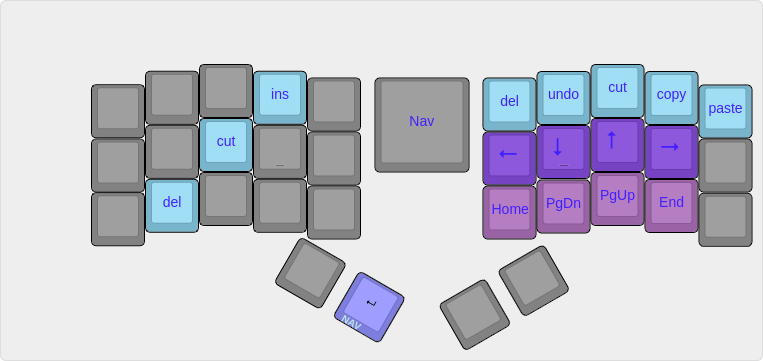
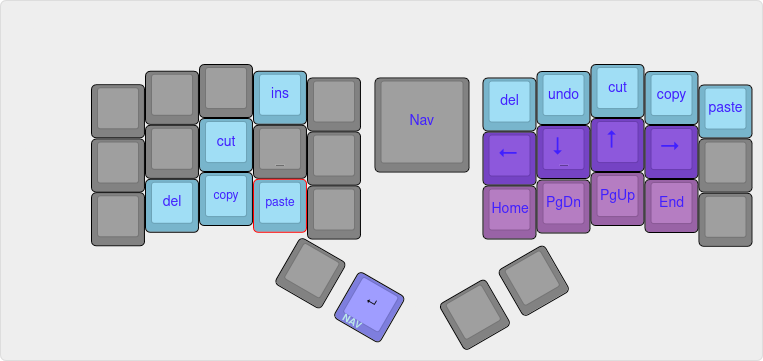
Feature: add copy paste to left hand in nav mode for mouse navigation

diff --git a/resources/linksToConfig.md b/resources/linksToConfig.md
@@ -8,7 +8,7 @@ http://www.keyboard-layout-editor.com/##@_switchMount=alps&plate:false&pcb:false
 http://www.keyboard-layout-editor.com/##@_switchMount=alps&plate:false&pcb:false%3B&@_y:1&x:3.5&c=%23828282&a:7%3B&=&_x:6.25%3B&=%3B&@_y:-0.875&x:2.5%3B&=&_x:1%3B&=%3B&@_y:-0.9950000000000001&x:9.75%3B&=&_x:1%3B&=%3B&@_y:-0.8799999999999999&x:5.5%3B&=&_x:0.25&c=%23a2deac&fa@:7%3B&w:1.75&h:1.75&l:true%3B&=Home%20Row%20Mods&_x:0.25&c=%23828282%3B&=%3B&@_y:-0.87489&x:1.5%3B&=%3B&@_y:-0.9951100000000004&x:12.75%3B&=%3B&@_y:-0.3799999999999999&x:3.5&c=%23f5a9a9&t=%23ff195e&fa@:6%3B%3B&=%3Cb%3ECtrl&_x:6.25%3B&=%3Cb%3ECtrl%3B&@_y:-0.875&x:2.5&c=%230f6308&t=%2383ff75%3B&=Alt%3B&@_y:-0.9997500000000001&x:4.5&c=%23336aab&t=%2396cbeb&sm=cherry&n:true%3B&=Shift%3B&@_y:-0.99525&x:9.75&n:true%3B&=Shift&_x:1&c=%230f6308&t=%2383ff75%3B&=Alt%3B&@_y:-0.8799999999999999&x:5.5&c=%23828282&t=%23000000%3B&=&_x:2.25%3B&=%3B&@_y:-0.8700000000000001&x:1.5&c=%23d1e3e3&fa@:9%3B%3B&=%3Ci%20class%2F='fa%20fa-linux'%3E%3C%2F%2Fi%3E&_x:10.25%3B&=%3Ci%20class%2F='fa%20fa-linux'%3E%3C%2F%2Fi%3E%3B&@_y:-0.3799999999999999&x:3.5&c=%23828282%3B&=&_x:6.25%3B&=%3B&@_y:-0.875&x:2.5%3B&=&_x:1%3B&=%3B&@_y:-0.9950000000000001&x:11.75%3B&=%3B&@_y:-0.9922999999999997&x:9.75%3B&=%3B&@_y:-0.8877000000000006&x:5.5%3B&=&_x:2.25%3B&=%3B&@_y:-0.875&x:1.5%3B&=%3B&@_y:-0.9900000000000002&x:12.75%3B&=%3B&@_r:30&rx:6.5&ry:4.25&y:0.5&x:-1%3B&=&_x:0.25&t=%231b6e6a%3B&=%3B&@_r:-30&rx:13&y:-1.5&x:-5%3B&=&_x:0.25&t=%23000000%3B&=
 
 ## Nav
-http://www.keyboard-layout-editor.com/##@_switchMount=alps&plate:false&pcb:false%3B&@_y:1&x:3.5&c=%23828282&a:7%3B&=&_x:6.25&c=%2378b5cc&t=%230600ff&fa@:4%3B%3B&=cut%3B&@_y:-0.875&x:2.5&c=%23828282&t=%23000000%3B&=&_x:1&c=%2378b5cc&t=%230600ff%3B&=ins%3B&@_y:-0.9950000000000001&x:9.75%3B&=undo&_x:1%3B&=copy%3B&@_y:-0.8799999999999999&x:5.5&c=%23828282&t=%23000000%3B&=&_x:0.25&t=%230600ff&w:1.75&h:1.75&l:true%3B&=Nav&_x:0.25&c=%2378b5cc%3B&=del%3B&@_y:-0.87489&x:1.5&c=%23828282&t=%23000000%3B&=%3B&@_y:-0.9951100000000004&x:12.75&c=%2378b5cc&t=%230600ff%3B&=paste%3B&@_y:-0.3799999999999999&x:3.5%3B&=cut&_x:6.25&c=%237543c4&fa@:9%3B%3B&=%3Ci%20class%2F='kb%20kb-Arrows-Up'%3E%3C%2F%2Fi%3E%3B&@_y:-0.875&x:2.5&c=%23828282&t=%23000000%3B&=%3B&@_y:-0.9997500000000001&x:4.5&sm=cherry&n:true%3B&=%3B&@_y:-0.99525&x:9.75&c=%237543c4&t=%230600ff&n:true%3B&=%3Ci%20class%2F='kb%20kb-Arrows-Down'%3E%3C%2F%2Fi%3E&_x:1%3B&=%3Ci%20class%2F='kb%20kb-Arrows-Right'%3E%3C%2F%2Fi%3E%3B&@_y:-0.8799999999999999&x:5.5&c=%23828282&t=%23000000%3B&=&_x:2.25&c=%237543c4&t=%230600ff%3B&=%3Ci%20class%2F='kb%20kb-Arrows-Left'%3E%3C%2F%2Fi%3E%3B&@_y:-0.8700000000000001&x:1.5&c=%23828282&t=%23000000%3B&=&_x:10.25%3B&=%3B&@_y:-0.3799999999999999&x:3.5%3B&=&_x:6.25&c=%239963a6&t=%230600ff&fa@:4%3B%3B&=PgUp%3B&@_y:-0.875&x:2.5&c=%2378b5cc%3B&=del&_x:1&c=%23828282&t=%23000000%3B&=%3B&@_y:-0.9950000000000001&x:11.75&c=%239963a6&t=%230600ff%3B&=End%3B&@_y:-0.9922999999999997&x:9.75%3B&=PgDn%3B&@_y:-0.8877000000000006&x:5.5&c=%23828282&t=%23000000%3B&=&_x:2.25&c=%239963a6&t=%230600ff%3B&=Home%3B&@_y:-0.875&x:1.5&c=%23828282&t=%23000000%3B&=%3B&@_y:-0.9900000000000002&x:12.75%3B&=%3B&@_r:30&rx:6.5&ry:4.25&y:0.5&x:-1%3B&=&_x:0.25&c=%237e7ede&t=%0A%0A%0A%0A%23bae6e8&a:3&f:3%3B&=%3Ci%20class%2F='kb%20kb-Return-2'%3E%3C%2F%2Fi%3E%0A%0A%0A%0A%3Cb%3ENAV%3C%2F%2Fb%3E%3B&@_r:-30&rx:13&y:-1.5&x:-5&c=%23828282&t=&a:7%3B&=&_x:0.25&t=%23000000%3B&=
+http://www.keyboard-layout-editor.com/##@_switchMount=alps&plate:false&pcb:false%3B&@_y:1&x:3.5&c=%23828282&a:7%3B&=&_x:6.25&c=%2378b5cc&t=%230600ff&fa@:4%3B%3B&=cut%3B&@_y:-0.875&x:2.5&c=%23828282&t=%23000000%3B&=&_x:1&c=%2378b5cc&t=%230600ff%3B&=ins%3B&@_y:-0.9950000000000001&x:9.75%3B&=undo&_x:1%3B&=copy%3B&@_y:-0.8799999999999999&x:5.5&c=%23828282&t=%23000000%3B&=&_x:0.25&t=%230600ff&w:1.75&h:1.75&l:true%3B&=Nav&_x:0.25&c=%2378b5cc%3B&=del%3B&@_y:-0.87489&x:1.5&c=%23828282&t=%23000000%3B&=%3B&@_y:-0.9951100000000004&x:12.75&c=%2378b5cc&t=%230600ff%3B&=paste%3B&@_y:-0.3799999999999999&x:3.5%3B&=cut&_x:6.25&c=%237543c4&fa@:9%3B%3B&=%3Ci%20class%2F='kb%20kb-Arrows-Up'%3E%3C%2F%2Fi%3E%3B&@_y:-0.875&x:2.5&c=%23828282&t=%23000000%3B&=%3B&@_y:-0.9997500000000001&x:4.5&sm=cherry&n:true%3B&=%3B&@_y:-0.99525&x:9.75&c=%237543c4&t=%230600ff&n:true%3B&=%3Ci%20class%2F='kb%20kb-Arrows-Down'%3E%3C%2F%2Fi%3E&_x:1%3B&=%3Ci%20class%2F='kb%20kb-Arrows-Right'%3E%3C%2F%2Fi%3E%3B&@_y:-0.8799999999999999&x:5.5&c=%23828282&t=%23000000%3B&=&_x:2.25&c=%237543c4&t=%230600ff%3B&=%3Ci%20class%2F='kb%20kb-Arrows-Left'%3E%3C%2F%2Fi%3E%3B&@_y:-0.8700000000000001&x:1.5&c=%23828282&t=%23000000%3B&=&_x:10.25%3B&=%3B&@_y:-0.3799999999999999&x:3.5&c=%2378b5cc&t=%230600ff&f:3%3B&=copy&_x:6.25&c=%239963a6&fa@:4%3B%3B&=PgUp%3B&@_y:-0.875&x:2.5&c=%2378b5cc%3B&=del&_x:1&f:3%3B&=paste%3B&@_y:-0.9950000000000001&x:11.75&c=%239963a6%3B&=End%3B&@_y:-0.9922999999999997&x:9.75%3B&=PgDn%3B&@_y:-0.8877000000000006&x:5.5&c=%23828282&t=%23000000%3B&=&_x:2.25&c=%239963a6&t=%230600ff%3B&=Home%3B&@_y:-0.875&x:1.5&c=%23828282&t=%23000000%3B&=%3B&@_y:-0.9900000000000002&x:12.75%3B&=%3B&@_r:30&rx:6.5&ry:4.25&y:0.5&x:-1%3B&=&_x:0.25&c=%237e7ede&t=%0A%0A%0A%0A%23bae6e8&a:3&f:3%3B&=%3Ci%20class%2F='kb%20kb-Return-2'%3E%3C%2F%2Fi%3E%0A%0A%0A%0A%3Cb%3ENAV%3C%2F%2Fb%3E%3B&@_r:-30&rx:13&y:-1.5&x:-5&c=%23828282&t=&a:7%3B&=&_x:0.25&t=%23000000%3B&=
 
 ## Num
 http://www.keyboard-layout-editor.com/##@_switchMount=alps&plate:false&pcb:false%3B&@_y:1&x:3.5&c=%2382d980&t=%23505e4f&fa@:0&:0&:0&:0&:0&:0&:0&:0&:0&:8%3B%3B&=%2F@%0A%0A%0A%0A%0A%0A%0A%0A%0A2&_x:6.25&c=%23828282&t=%23272b27&a:7%3B&=%3B&@_y:-0.875&x:2.5&c=%2382d980&t=%23505e4f&a:4&fa@:6&:0&:0&:0&:0&:0&:0&:0&:0&:8%3B%3B&=!%0A%0A%0A%0A%0A%0A%0A%0A%0A1&_x:1&fa@:5&:0&:0&:0&:0&:0&:0&:0&:0&:8%3B%3B&=%23%0A%0A%0A%0A%0A%0A%0A%0A%0A3%3B&@_y:-0.9950000000000001&x:9.75&c=%23828282&t=%23272b27&a:7%3B&=&_x:1%3B&=%3B&@_y:-0.8799999999999999&x:5.5&c=%233675cf&t=%2393ff78&fa@:9%3B%3B&=+&_x:0.25&c=%23828282&t=%232ff50f&fa@:8%3B&w:1.75&h:1.75&l:true%3B&=NUM&_x:0.25&t=%23272b27%3B&=%3B&@_y:-0.87489&x:1.5&c=%23f5a2ec&t=%2318910d%3B&=%5C%3B&@_y:-0.9951100000000004&x:12.75&c=%23828282&t=%23272b27%3B&=%3B&@_y:-0.3799999999999999&x:3.5&c=%2382d980&t=%23505e4f&a:4&fa@:0&:0&:0&:0&:0&:0&:0&:0&:0&:8%3B%3B&=%25%0A%0A%0A%0A%0A%0A%0A%0A%0A5&_x:6.25&c=%23828282&t=%23272b27&a:7%3B&=%3B&@_y:-0.875&x:2.5&c=%2382d980&t=%23505e4f&a:4&fa@:5&:0&:0&:0&:0&:0&:0&:0&:0&:8%3B%3B&=$%0A%0A%0A%0A%0A%0A%0A%0A%0A4%3B&@_y:-0.9997500000000001&x:4.5&sm=cherry&fa@:6&:0&:0&:0&:0&:0&:0&:0&:0&:8%3B&n:true%3B&=%5E%0A%0A%0A%0A%0A%0A%0A%0A%0A6%3B&@_y:-0.99525&x:9.75&c=%23828282&t=%23272b27&a:7&n:true%3B&=&_x:1%3B&=%3B&@_y:-0.8799999999999999&x:5.5&c=%233675cf&t=%2393ff78&fa@:8%3B%3B&=-&_x:2.25&c=%23828282&t=%23272b27%3B&=%3B&@_y:-0.8700000000000001&x:1.5&c=%23f5a2ec&t=%2318910d%3B&=%2F%2F&_x:10.25&c=%23828282&t=%23272b27%3B&=%3B&@_y:-0.3799999999999999&x:3.5&c=%2382d980&t=%23505e4f&a:4&fa@:0&:0&:0&:0&:0&:0&:0&:0&:0&:8%3B%3B&=*%0A%0A%0A%0A%0A%0A%0A%0A%0A8&_x:6.25&c=%23828282&t=%23272b27&a:7%3B&=%3B&@_y:-0.875&x:2.5&c=%2382d980&t=%23505e4f&a:4%3B&=%2F&%0A%0A%0A%0A%0A%0A%0A%0A%0A7&_x:1%3B&=(%0A%0A%0A%0A%0A%0A%0A%0A%0A9%3B&@_y:-0.9950000000000001&x:11.75&c=%23828282&t=%23272b27&a:7%3B&=%3B&@_y:-0.9922999999999997&x:9.75%3B&=%3B&@_y:-0.8877000000000006&x:5.5&c=%234eaacc&t=%23113d06&fa@:8%3B%3B&=,&_x:2.25&c=%23828282&t=%23272b27%3B&=%3B&@_y:-0.875&x:1.5&c=%23f5a2ec&t=%2318910d&fa@:9%3B%3B&=*%3B&@_y:-0.9900000000000002&x:12.75&c=%23828282&t=%23272b27%3B&=%3B&@_r:30&rx:6.5&ry:4.25&y:0.5&x:-1&c=%2382d980&t=%23505e4f&a:4&fa@:0&:0&:0&:0&:0&:0&:0&:0&:0&:8%3B%3B&=)%0A%0A%0A%0A%0A%0A%0A%0A%0A0&_x:0.25&c=%2354ffe3&t=%23000000&a:7&fa@:8%3B%3B&=%2F=%3B&@_r:-30&rx:13&y:-1.5&x:-5&c=%2314ff1d&t=%232b0606%3B&=%0A%0A%0A%0ANUM&_x:0.25&c=%23828282&t=%23000000%3B&=
